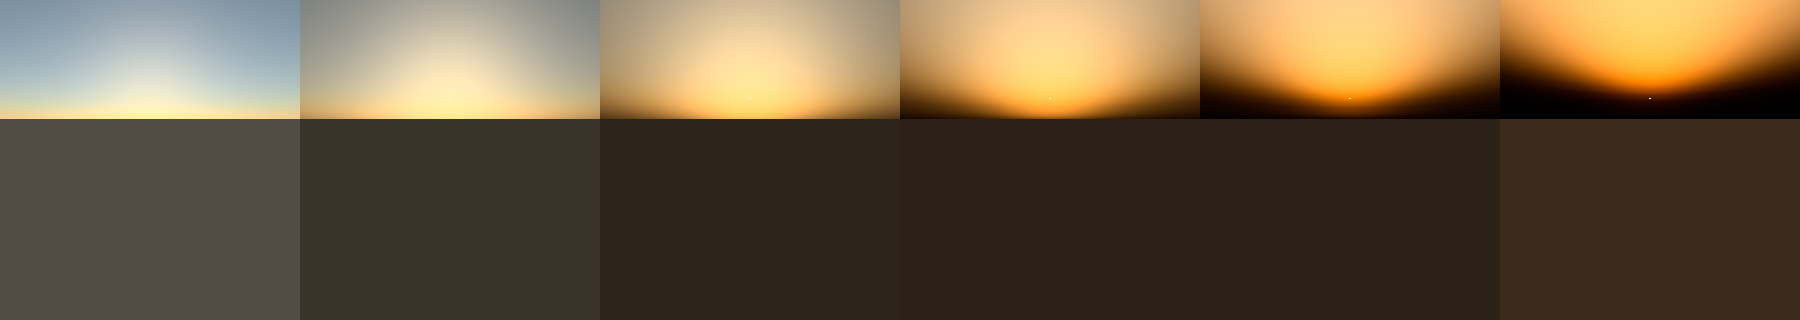
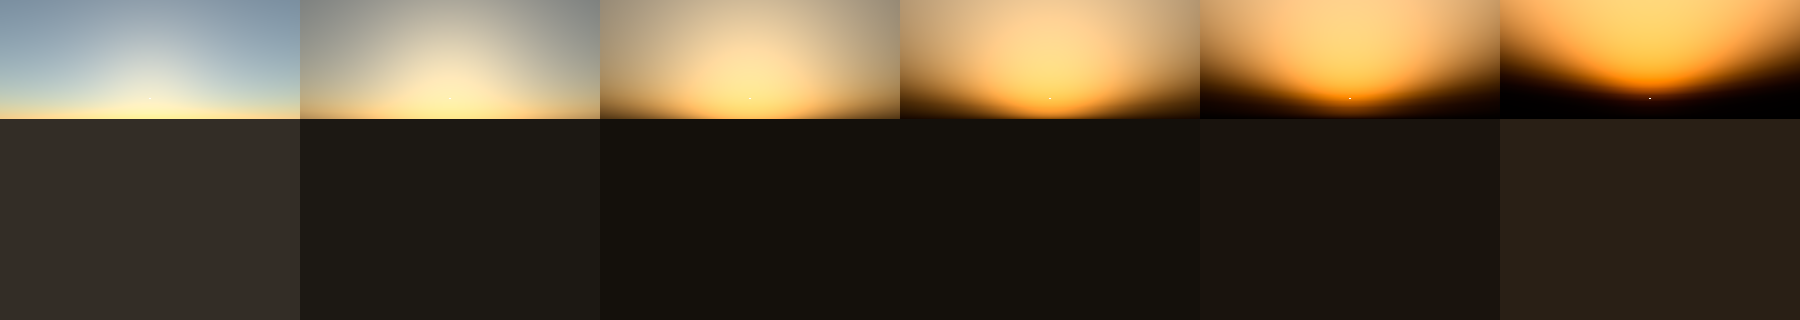
Fix perspective camera pitch sign; add gallery experiment

diff --git a/experiments/06_gallery.py b/experiments/06_gallery.py
@@ -1,0 +1,74 @@
+"""Experiment 06 -- the gallery.
+
+A contact sheet of skies: the same landscape camera looking at the sun through
+a day, and at a fixed sun position through a range of atmospheres.
+"""
+from __future__ import annotations
+
+import matplotlib
+
+matplotlib.use("Agg")
+import numpy as np
+
+from common import FIG, WL, row, strip
+from skycolor import presets, render
+from skycolor.aerosol import DustAerosol, HazeAerosol, MaritimeAerosol, SmokeAerosol
+from skycolor.atmosphere import AerosolLayer, Atmosphere, ExponentialProfile
+
+W, H = 360, 240
+CAM = dict(camera="perspective", size=(W, H), hfov_deg=100, pitch_deg=16,
+           reference_percentile=93, n_zenith=44, n_azimuth=61, sun_disk=True)
+
+
+def shot(atmo, sun_el, sun_az=0.0, **kw):
+    return render.render_scene(atmo, sun_el, sun_az, **kw)
+
+
+def main():
+    clear = presets.clear(WL, aod=0.06)
+
+    # ---- a day ------------------------------------------------------------
+    day = []
+    for el in [55, 25, 8, 2]:
+        day.append(shot(clear, el))
+    sunset = []
+    for el in [0.5, -1.5, -4, -7]:
+        sunset.append(shot(clear, el))
+    render.save_png(strip([row(day), row(sunset)], gap=5), FIG / "06_gallery_day.png")
+    print("  -> 06_gallery_day.png")
+
+    # ---- atmospheres ------------------------------------------------------
+    sky = []
+    for aer, aod in [(None, 0.0), (HazeAerosol(0.4), 0.08), (HazeAerosol(0.8), 0.35),
+                     (DustAerosol(), 0.8)]:
+        if aer is None:
+            atmo = Atmosphere(WL, aerosols=[])
+        else:
+            atmo = Atmosphere(WL, aerosols=[AerosolLayer(aer, aod, ExponentialProfile(1.3))])
+        sky.append(shot(atmo, 12.0))
+    sky2 = []
+    for aer, aod in [(SmokeAerosol(), 0.5), (MaritimeAerosol(), 0.15),
+                     (DustAerosol(), 2.0), (HazeAerosol(0.9), 1.5)]:
+        atmo = Atmosphere(WL, aerosols=[AerosolLayer(aer, aod, ExponentialProfile(1.3))])
+        sky2.append(shot(atmo, 12.0))
+    render.save_png(strip([row(sky), row(sky2)], gap=5), FIG / "06_gallery_air.png")
+    print("  -> 06_gallery_air.png")
+
+    # ---- a big hero image --------------------------------------------------
+    hero = render.render_scene(presets.clear(WL, aod=0.05), 3.0, 0.0,
+                               camera="perspective", size=(1400, 560), hfov_deg=100,
+                               pitch_deg=14, reference_percentile=94,
+                               n_zenith=56, n_azimuth=91)
+    render.save_png(hero, FIG / "06_hero_sunset.png")
+    print("  -> 06_hero_sunset.png")
+
+    hero2 = render.render_scene(presets.hazy(WL, aod=0.25, rh=0.7), 22.0, 0.0,
+                                camera="perspective", size=(1400, 560), hfov_deg=100,
+                                pitch_deg=14, reference_percentile=94,
+                                n_zenith=56, n_azimuth=91)
+    render.save_png(hero2, FIG / "06_hero_hazy.png")
+    print("  -> 06_hero_hazy.png")
+
+
+if __name__ == "__main__":
+    main()

diff --git a/skycolor/render.py b/skycolor/render.py
@@ -114,8 +114,8 @@ def perspective_grid(width: int, height: int, hfov_deg: float = 90.0,
     dx, dy, dz = dx / n, dy / n, dz / n
     p = np.radians(pitch_deg)
     v = np.radians(yaw_deg)
-    dy2 = dy * np.cos(p) - dz * np.sin(p)
-    dz2 = dy * np.sin(p) + dz * np.cos(p)
+    dy2 = dy * np.cos(p) + dz * np.sin(p)   # +pitch looks up
+    dz2 = -dy * np.sin(p) + dz * np.cos(p)
     dx3 = dx * np.cos(v) + dz2 * np.sin(v)
     dz3 = -dx * np.sin(v) + dz2 * np.cos(v)
     elevation = np.degrees(np.arcsin(np.clip(dy2, -1, 1)))
